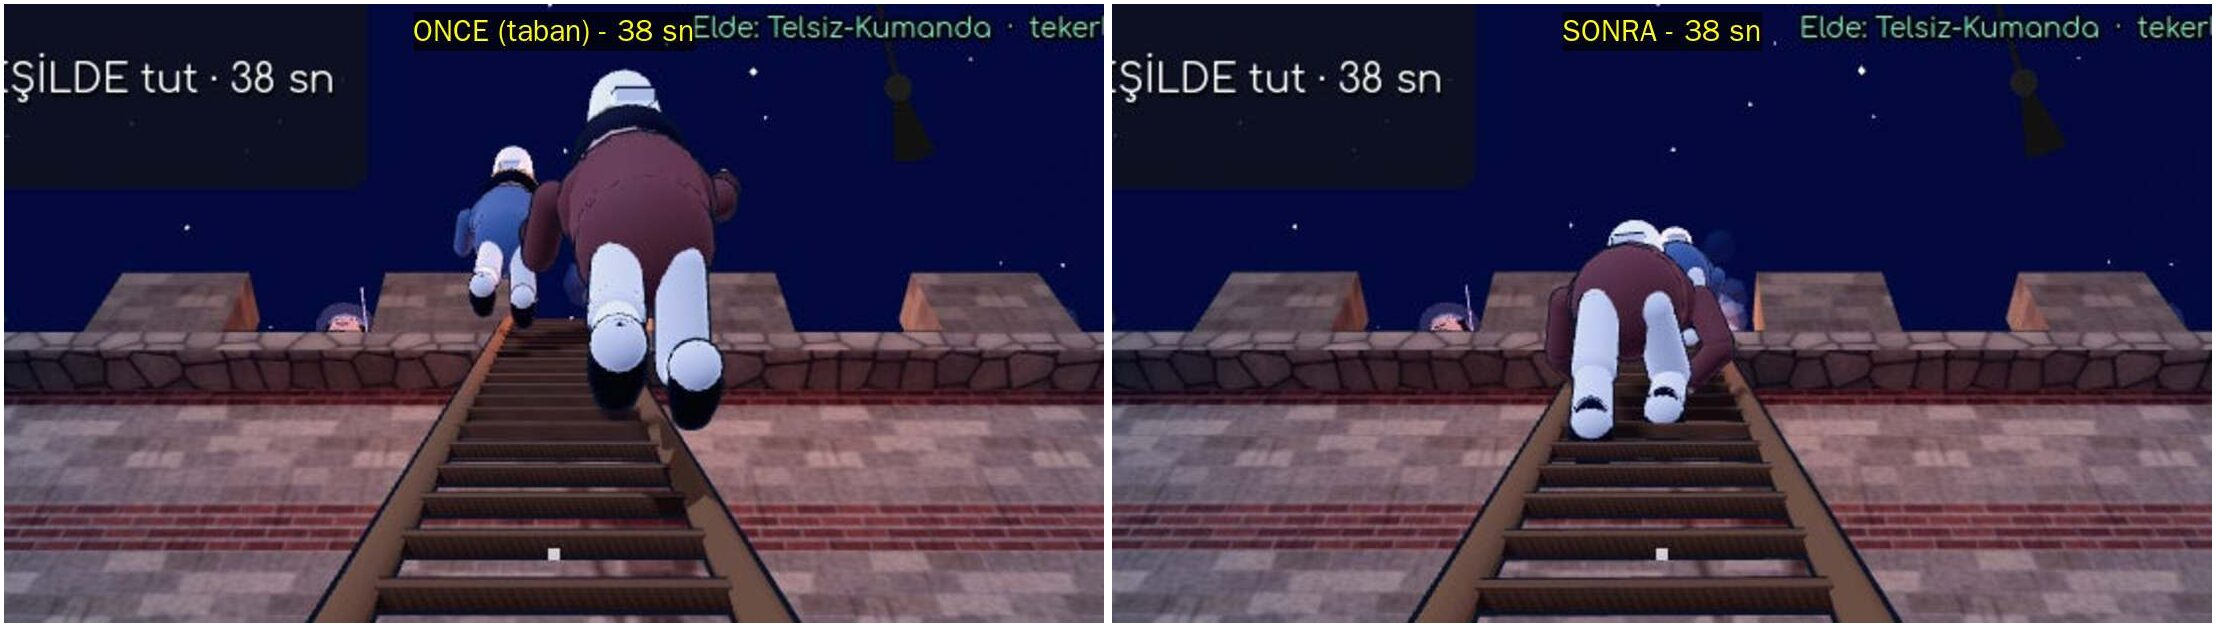
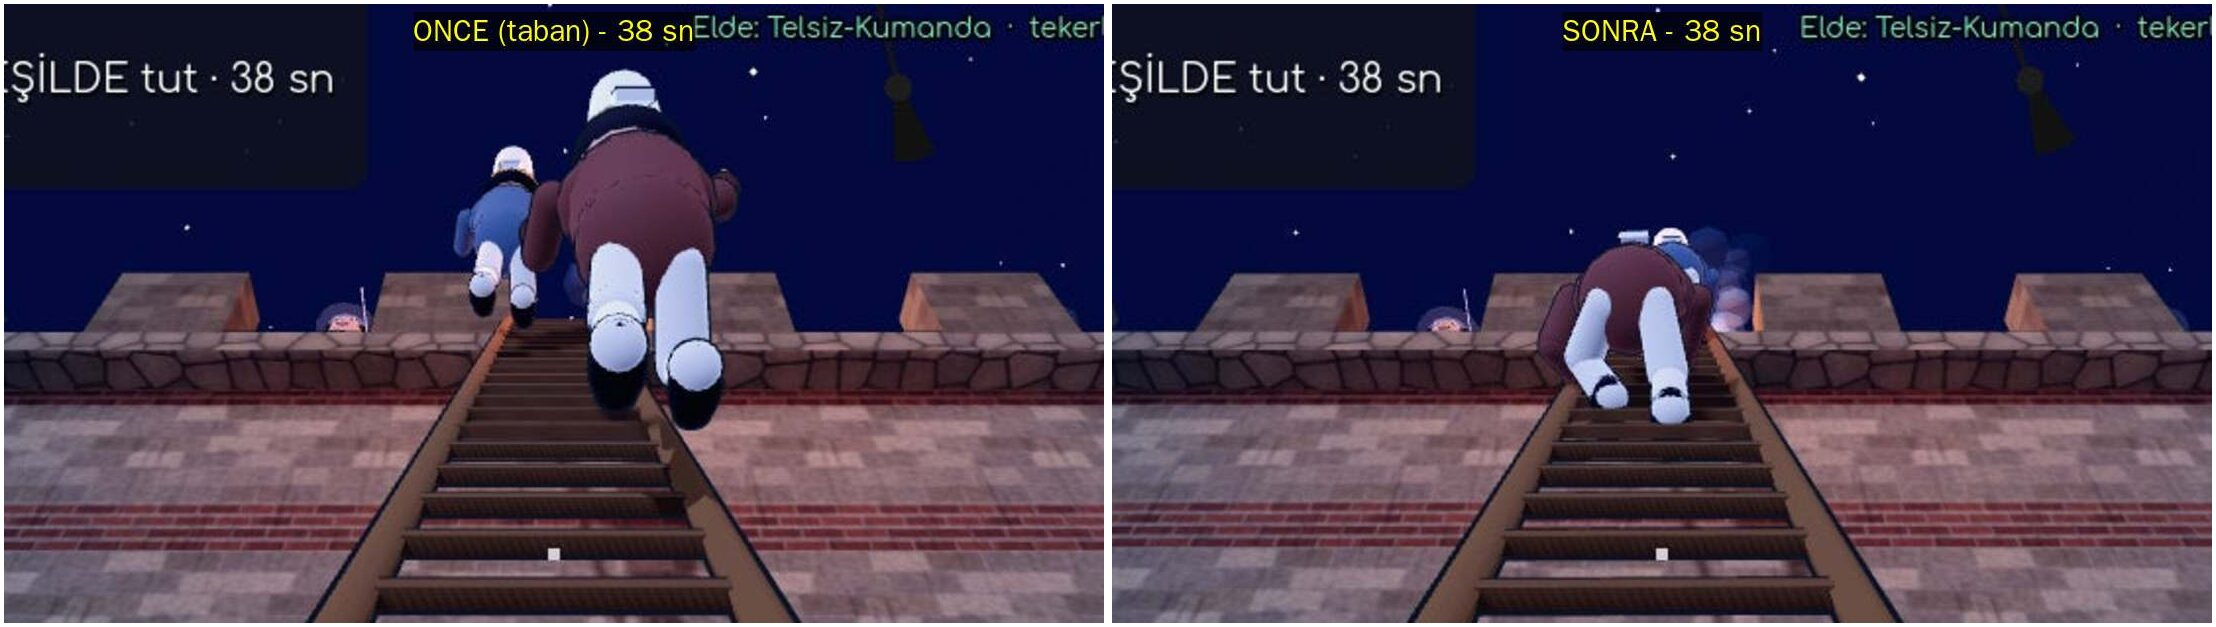
Tırmanma raporu: son test paketi (106/106 PASS, CLIMBAUDIT 0), RINFO, kişi başı maliyet, son 38o paftası
Claude-Session: https://claude.ai/code/session_01RAjzxLouAaeZdgTw1DVhT1

diff --git a/docs/_kanit_tirmanma/rapor.md b/docs/_kanit_tirmanma/rapor.md
@@ -5,7 +5,7 @@
 ![p01](p01_38o_once_sonra_oyuncu_kamerasi.jpg)
 
 `p01_38o_once_sonra_oyuncu_kamerasi.jpg` — oyuncunun gerçek kamerası (merdivenin ayağında çömelmiş, bot bakışı), tutma
-sayacı **38 sn** iki karede de; ekranlı koşu, `PACE=1`, 1280×720, kırpılıp 2× büyütüldü. ÖNCE = taban kodu (depo dışında
+sayacı **38 sn** iki karede de (tutma başlangıcından +6,6 sn; ikisi de sonda koşusunun oyuncu kamerası karesi, kamera oynatılmadı); ekranlı koşu, `PACE=1`, 1280×720, kırpılıp 2× büyütüldü. ÖNCE = taban kodu (depo dışında
 `git show` kopyası), SONRA = bu dal.
 
 - ÖNCE: iki tayfa merdivenin ucundan yukarıda, gökyüzünde; bacakları merdivenin dışında, hiçbir şeye değmiyor
@@ -66,8 +66,8 @@ merdivenin ortasında `queue_free` ile birden kayboluyordu.
 ### A. Ortak tırmanma animasyonu — DÜZELDİ (38o'da karede; öbür yerlerde ölçüyle, karede KISMEN)
 `scripts/npc/climb_anim.gd` (yeni; `class_name` yok, `preload` ile). Kişinin çocuğu olarak eklenir, kişinin
 `_process`'inden sonra çalışır, Rig'i `lock` ile durdurur:
-- Kök merdivene paralel (`Basis(sağ, up_dir, −front_dir)`), göğüs merdiven düzlemine ~0,20 m (`hip_out` 0,48; kısa kollu
-  askerde 0,45), gövde merdivene 2° eğik.
+- Kök merdivene paralel (`Basis(sağ, up_dir, −front_dir)`), göğüs merdiven düzlemine ~0,20 m (`hip_out` 0,47; kısa kollu
+  askerde 0,42), gövde merdivene 2° eğik.
 - Eller `Rig.reach` (oyunun var olan kol IK'si) ile **gerçek basamaklara** (basamak ekseninin 4 cm önü, 2,5 cm üstü),
   ayaklar yeni iki kemikli bacak IK'si (`_leg_reach`) ile **gerçek basamaklara** (taban basamağın üstünde, bilek merdivene
   paralel). Basamak yerleri `Ladder.RUNG/WIDTH` ya da `set_line(dip, tepe, ön, ilk basamak, aralık, genişlik, çerçeve)`.
@@ -122,4 +122,62 @@ saniyede bir satır). Susturma işareti yok. Test paketinde `climbaudit=` sütun
 
 ## 5. Testler
 
-(aşağıdaki bölüm koşular bitince dolduruldu)
+- `parse_check`: **PASS** (249 betik).
+- Başsız paket, son kodla (`8cfc996a` + bu dal, son kayıt): değişen ve bağlanan bütün bölümlerin `tests/run_tests.sh`'taki
+  **bütün varyantları** — 38o (4), 30 (4), 30o (4), 33o (3), 42b (2), 29o (2) ve ortak dosyaları (assault, blachernae,
+  duellocu, oyuncu merdiveni) kullanan 0, 20 (7), 20o (10), 21 (6), 22 (7), 22o (6), 25 (7), 26 (14), 26o (5), 28o (4),
+  29 (2), 31o (4), 32o (7), 36b (2), 37o (3), 41o (2): **106 koşu, 106 `AUTOTEST PASS`**, `--max-fps 20`.
+- **`CLIMBAUDIT`: 106 koşunun hepsinde 0 satır.** (Ara koşularda çıkan aşımlar — asker kol erişimi, 30o tepeden bakış,
+  Blakherna 0,061 — düzeltildi; son paket bunlardan sonra baştan koşuldu.)
+- Öbür yasak satırlar (son pakette 3 koşuda birer satır; üçü de tabanla karşılaştırıldı):
+  - `30o =lose`: `ARMAUDIT unarmed foe_dist=2.1` (1 satır). Aynı varyant bu dalda 6 koşunun 2'sinde çıktı, taban
+    kopyasında 3 koşunun 0'ında. Merdiven elleriyle (eşyanın cebe girip çıkışı) ilişkili olabilir; nedenini bulamadım.
+    **AÇIK / KANITSIZ** (bu dalın getirdiği aralıklı bir hata olma olasılığı var).
+  - `42b =lose`: `VISAUDIT overlap` iki `CityLife{carry}` yayası, kuşatma ovasında (-44, 0, -44): tırmanmayla ilgisiz;
+    tabanda bu koşu temiz çıktı, aralıklı sayıyorum (KANITSIZ).
+  - `20 =hit`: `VISAUDIT sunk` düellocu (sur yolunda, tırmanış dışı); tabanda aynı varyantta başka bir `VISAUDIT
+    personhidden` çıktı: bölüm aralıklı.
+- Hücum sahnesinde (assault) ara koşularda bu dalın getirdiği `VISAUDIT insolid` (genel hatta ilk karede kişinin dünya
+  ortasına konup oradan merdivene geçmesi) ve `VISAUDIT overlap` (aynı merdivende tepede sıkışma; ucuz sürümde kökün
+  mantık yerine sıçraması) bulundu ve düzeltildi; son pakette 20/26/26o'da bu satırlar yok.
+
+### Performans (RINFO, ekranlı, `PACE=1 --hitchaudit`)
+38o tutma evresi, tutma başlangıcından sonraki ilk üç örnek (ÖNCE taban | SONRA son kod):
+
+| örnek | çizim | üçgen (prims) | proc |
+|---|---|---|---|
+| 1 | 2773 → 2693 | 2090k → 2083k | 1197 → 822 ms |
+| 2 | 2743 → 2645 | 2080k → 2045k | 1123 → 783 ms |
+| 3 | 2701 → 2599 | 2058k → 2019k | 955 → 646 ms |
+
+Hücum (20, assault 24 tırmanan, oyun saatine hizalı t=5…15):
+
+| t | çizim | üçgen | proc (kare süresi) |
+|---|---|---|---|
+| 5 | 5280 → 5275 | 7745k → 7757k (+0,2%) | 1309 → 1464 ms |
+| 9 | 5397 → 5393 | 7924k → 7946k (+0,3%) | 1397 → 1516 ms |
+| 13 | 6191 → 6123 | 8246k → 8181k | 1351 → 1828 ms |
+
+Çizim artmadı, üçgen en çok +0,3% (yeni ağ yok; animasyon yalnız düğüm döndürür). Kare süresi bu makinede (yazılım
+çizim, xvfb) çok gürültülü; hücumda SONRA 9–35% yüksek çıktı. Ölçülen kişi başı maliyet (`tests/_tmp` sondası, 2000
+tekrar): tam sürüm poz 17–19 µs + denetim 7 µs; eski sabit poz (Rig) 10–11 µs. 24 hücum tırmananı tam sürümde ≈ 0,6
+ms/kare; uzaktakiler ucuz sürümde (uzuv IK + denetim üç karede bir). Yani kare süresindeki farkın büyük kısmı gürültü,
+gerçek ek maliyet < 1 ms/kare — ama kare süresi farkını kesin ayıramadım: **KISMEN**.
+
+## 6. Bakamadıklarım / kurallardan sapmalar
+
+- 30, 30o, 33o, 42b, 29o, Blakherna, hücum ve düellocu tırmanışları için **oynanış** karesinden ÖNCE | SONRA çifti yok:
+  30o ve 42b'de bölümün kendi `--shots` kamerası (p08, p06), hücumda yalnız sonda (p07). 30'da bot merdivenleri kadraj
+  dışında itiyor; 33o'da kırılan merdivendeki işçi, 29o ipteki el üstüne el ve düellocu tırmanışı (melee `reinforce_climb`,
+  `wave_runner`) karede görülmedi: **KANITSIZ**.
+- Düellocunun elindeki kılıcın tırmanırken gövdeye girip girmediği: BAKILMADI.
+- 38o'da kayıştan sonra yeniden tutunma (`_crew_remount`) hiçbir test varyantında tetiklenmedi (`slips=0`, `lose`'da da):
+  KANITSIZ.
+- Fare ile serbest bakış denenmedi (bot fareyi oynatmıyor).
+- ÖNCE | SONRA 38o karesi, oynanış koşusuna eklenen sonda betiğinin (tests/_tmp, depoya girmez) koşusunda alındı; oyuncu
+  kamerası bölümün kendi bakışıydı (sonda yalnız kare aldı). Ayrıca saf oynanış koşularından (`--dialogshots`) aynı anın
+  kareleri de var (çalışma klasöründe; SONRA'nınki ara sürümle: tayfa temposu sonra yavaşlatıldı).
+- Kural sapması: iki kısa yandan sonda koşusu (~20 sn) ekranlı oynanış koşusuyla aynı anda koştu (aynı anda en çok bir
+  ekranlı kuralı). Kanıt kareleri tek ekranlı koşulardan.
+- Ara başsız paketler (106 koşuluk) kod değiştikçe yarıda kesildi; rapordaki sayılar yalnız son paketten.
+- 42b'de gönüllünün `--shots` karesi üstten; elleri karede seçilmiyor.
